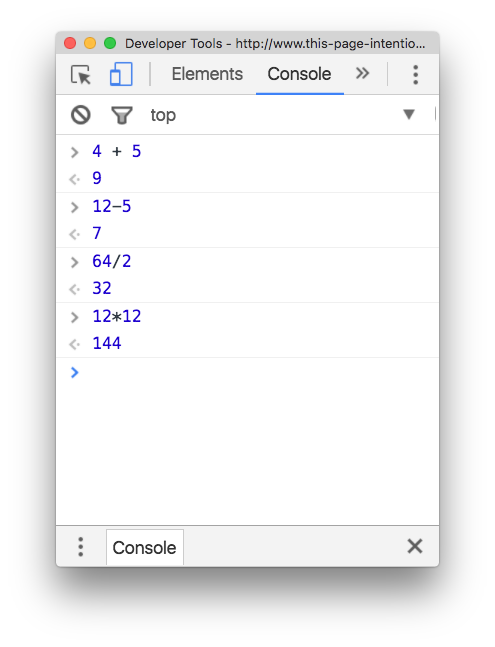
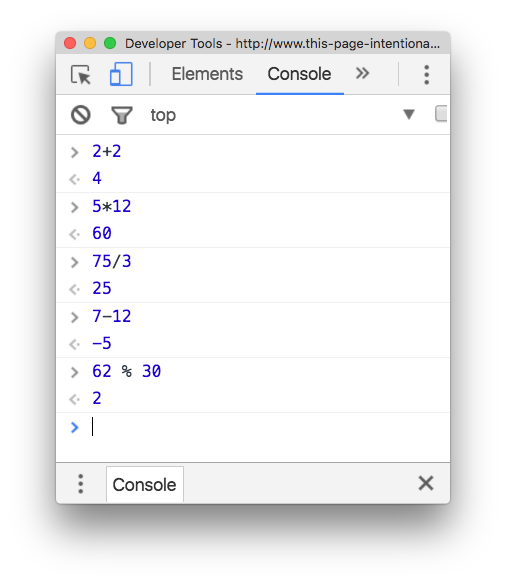
naming variables

diff --git a/README.md b/README.md
@@ -1,8 +1,6 @@
-#
+# JavaScript: Foundation for Logic and Comparisons
 
-# JavaScript: Variables
-
-We now move away from using coding to simply add interactivity to a website. We harness it's ability to calculate and to compare -- all foundations for programming logic.
+We now move away from using coding to simply add interactivity to a website. Instead, we harness JavaScript's ability to calculate and to compare -- all foundations for programming logic.
 
 ## Hello JavaScript Console
 
@@ -16,16 +14,9 @@ Let's do some simple math:
 
 ![](/img/basicmath.png)
 
-### Make JavaScript Easier to Read
+But using JavaScript as a calculator is not the goal. Instead we want a way to hold numbers and other information that we can manipulate on the fly.
 
-- Commenting - You're going to forget what various parts of your code are supposed to do. Leave a comment as a reminder or as a quick clarification for anyone you might collaborate with. You comment in JavaScript with two slashes `// Comment here` usually at the end of the line of code.
-- White Space - JavaScript doesn't care about white space. Use it to make it easier to read your code.
-- Line Length - The longer the line of code gets, the harder it is to read and evaluate. Try to keep a line less than 80 characters long.
-- Line Break - If the line of code must be longer than 80 characters, break it onto a new line after an operator (+ , - , * , / , etc.)
-
-### Exercise One (15 minutes)
-
-????????
+## Variables
 
 Variables are placeholders for values.They can be any of the following:
 
@@ -80,8 +71,11 @@ The idea is to give meaningful names so you aren't confused by what they stand f
 
 - They ARE case sensitive.
 - Cannot begin with numbers.
-- No spaces between words, instead use underscores, hypens or camelCase.
+- No spaces between words, instead use underscores, hyphens or camelCase (`var myCamelCaseExample`).
 - Don't use any JavaScript [reserved words](http://www.w3schools.com/js/js_reserved.asp).
+- Think of code as story. Each variable is like a character/actor. Naming each in a relevant way such makes the narrative (the code) easier to follow.
+- Keep the variables short but make sure they make sense.
+- Don't integrate values into the name of a variable. For example, for drinking age, `var legal21` might work. But what if you expand your piece internationally? Or what if the legal age changes? Making it `var legalDrinkingAge` is more adaptable.
 
 <br>
 
